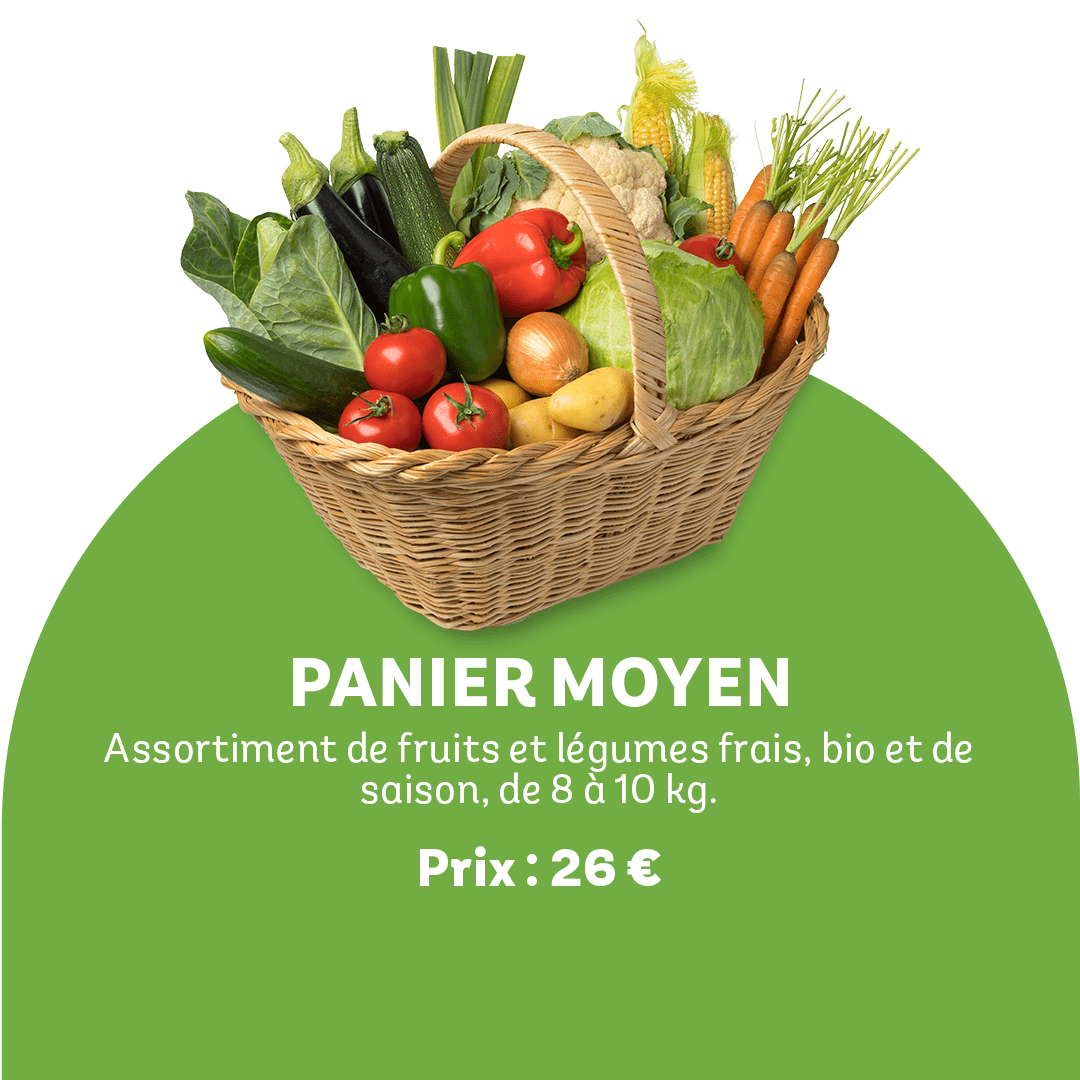
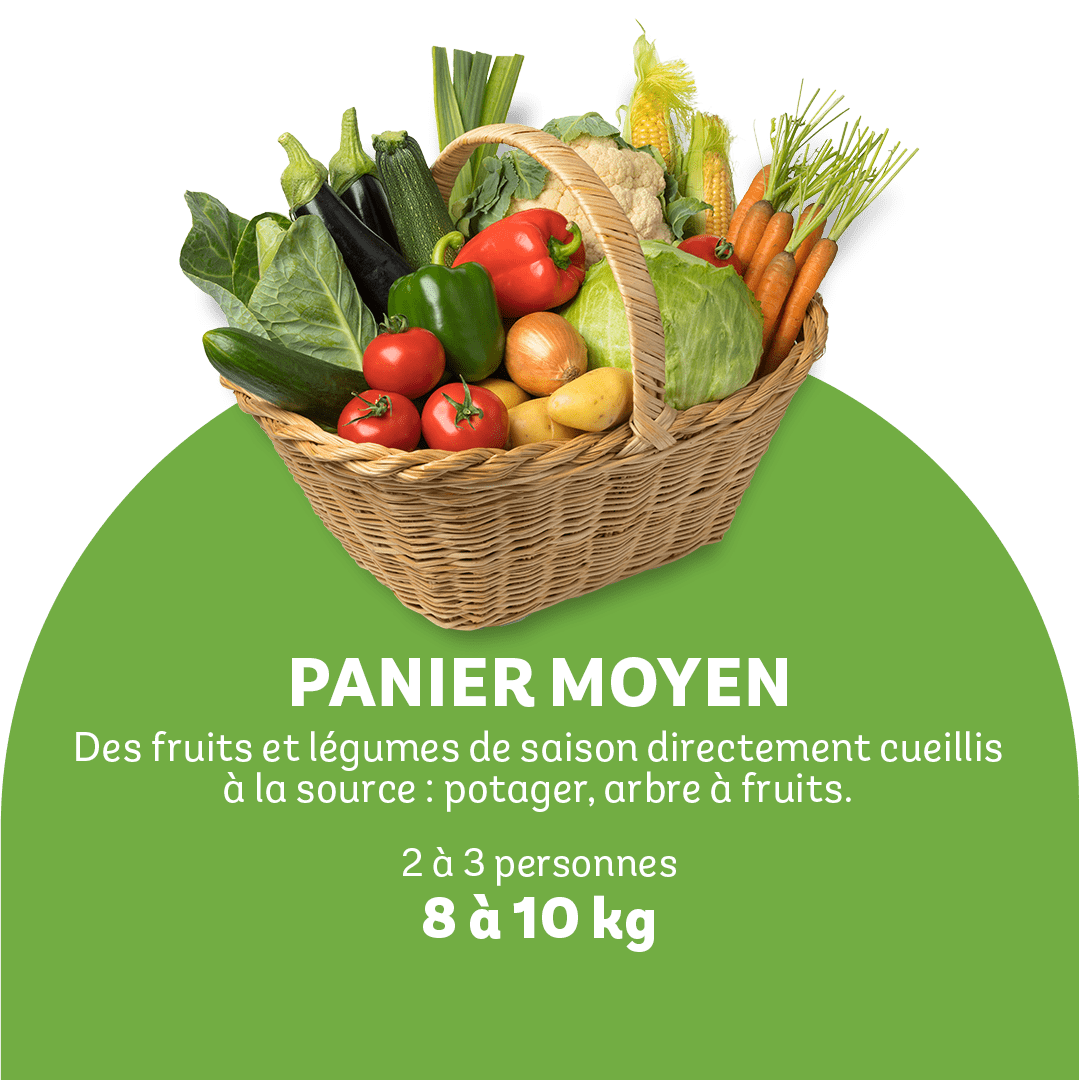
Remplacement image panier, responsivité Bouton

diff --git a/public/assets/css/list_subscription.css b/public/assets/css/list_subscription.css
@@ -1,4 +1,11 @@
 
+        .button1{
+            background-color: #72ad43;
+            color: white;
+            font-weight: 700;
+        }
+
+
         .biolife-banner__style-16 .link-cat{
             top: 492px;
             left: 27%;
@@ -16,8 +23,66 @@
             font-size: large;
         }
 
-    
+        .button_subscription{
+            margin: auto;
+            width: 50%;
+            font-size: 23px;
+            padding: 2px;
+        }
+
+        .button_sub_grand_panier{
+            margin: auto;
+            font-size: 23px;
+            padding: 2px;
+            z-index: 90;
+        }
+
+        .panier-sur-mesure-block .button_subscription{
+            width: 29%;
+        }
+
+
         /** Desktop device */
+        @media (max-width: 1214px) and (min-width: 991px){
+            .button_subscription{
+                width: 57%;
+            }
+            .button_sub_grand_panier{
+                margin-top: -50px;
+                z-index: 50000000;
+                position: absolute;
+            }
+            .panier-sur-mesure-block .button_subscription{
+                width: 33%;
+            }
+        }
+        @media (max-width: 992px) and (min-width: 768px){  
+            .button_subscription{
+                width: 75%;
+            }
+
+            .button_sub_grand_panier{
+                margin-top: -111px;
+            }
+            .panier-sur-mesure-block .button_subscription{
+                width: 50%;
+            }
+        }
+
+        @media (max-width: 768px) and (min-width: 575px){  
+            .button_subscription{
+                width: 94%;
+            }
+
+            .button_sub_grand_panier{
+                margin-top: -150px;
+            }
+            .panier-sur-mesure-block .button_subscription{
+                width: 60%;
+            }
+        }
+        
+    
         @media (max-width: 1199px){
             .biolife-banner__style-16 .link-cat{
                 top: 464px;
@@ -77,10 +142,32 @@
             .biolife-banner__style-17_02 .media{
                 height: 571px;
             }         
+            .biolife-banner__style-p_sur_mesure .media{
+                height: 571px;
+            }
 
             .biolife-banner__style-16 .link-cat, .biolife-banner__style-17 .link-cat, .biolife-banner__style-17_02 .link-cat{
                 top: 469px;
             }  
+
+
+            .button_subscription{
+                width: 100%;
+                margin-top: -81px;
+                z-index: 90;
+            }
+
+            .button_sub_grand_panier{
+                width: 100%;
+                margin-top: -81px;
+
+            }
+            .panier-sur-mesure-block .button_subscription{
+                width: 100%;
+                margin-top: -81px;
+                z-index: 90;
+
+            }
             
         }
         
